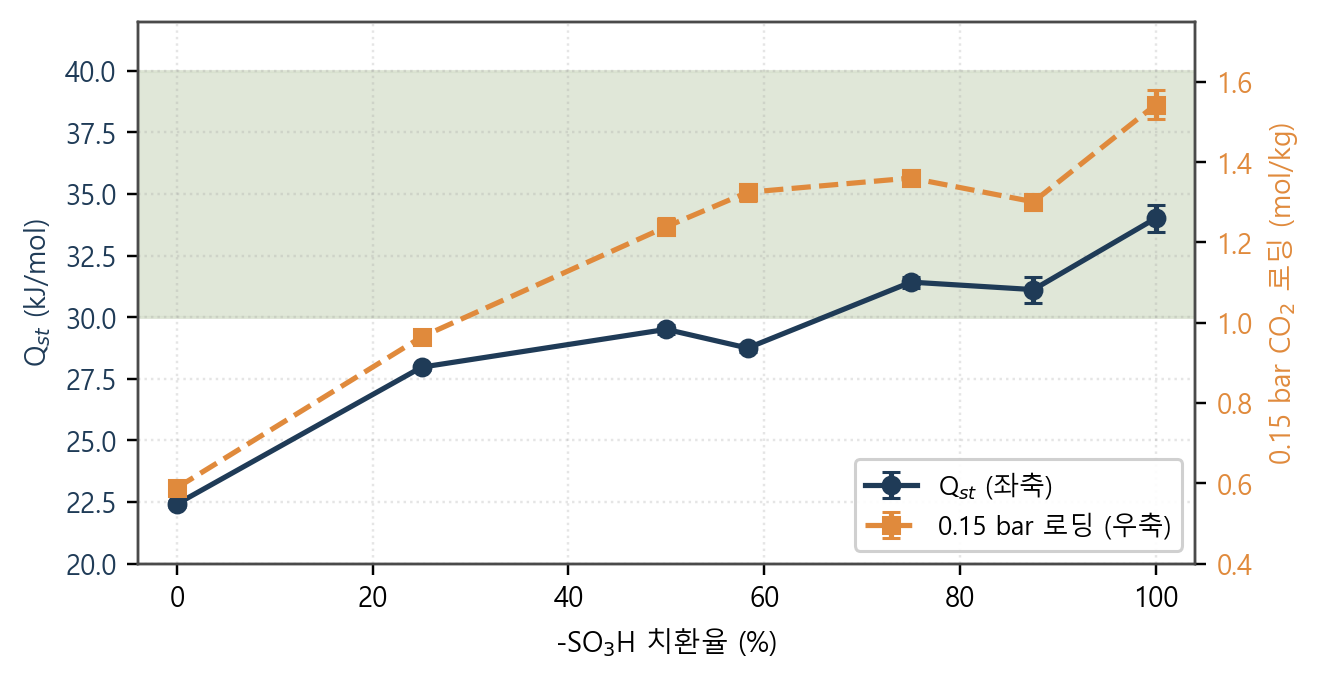
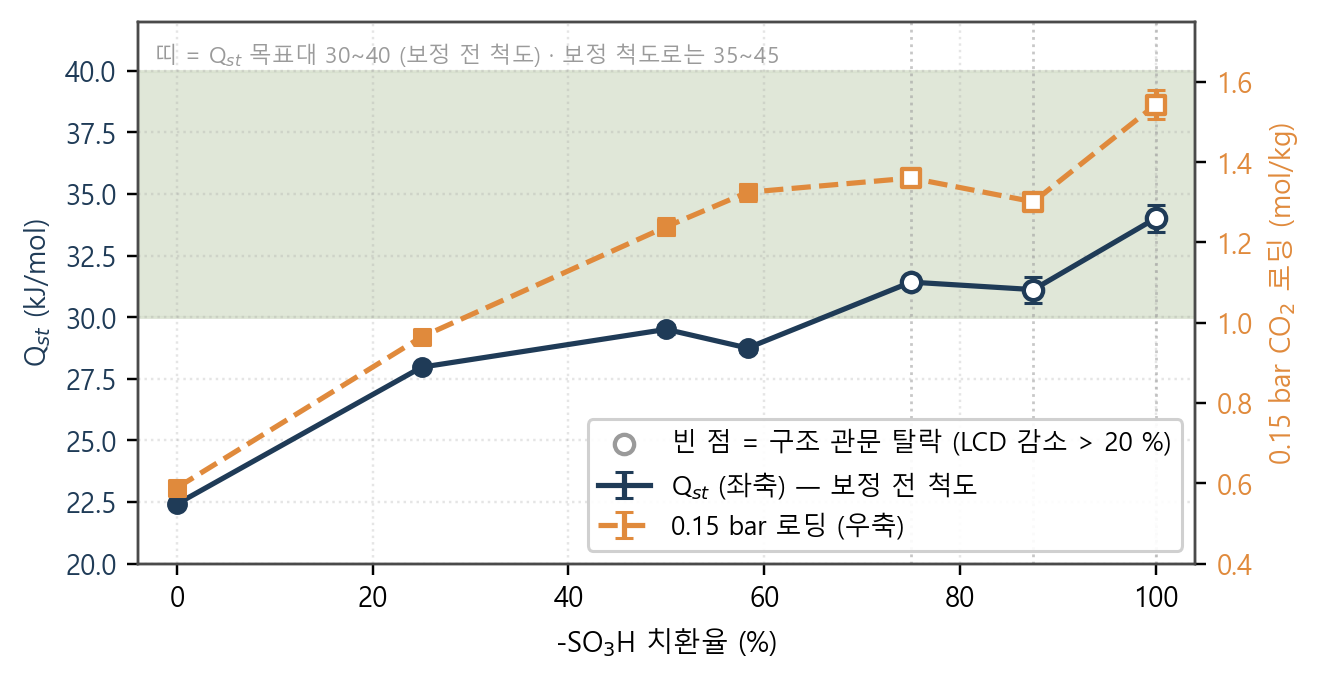
그림 2·6 — 관문 탈락 조성을 빈 점으로 가르고 Q_st 척도를 표시
그림 2 의 사다리 일곱 중 셋(saIm075 20.26 · saIm0875 21.21 · saIm100 22.50 %)이
구조 관문 탈락인데 표지 없이 그려져 있었습니다. 값은 안 지우고 채운 점/빈 점으로
가릅니다 - 사다리가 계속 오르는데 58.3 % 위가 전부 빈 점인 것이 한눈에 보입니다.

Q_st 창 30~40 은 보정 전 척도입니다. 그림 6 의 회귀 계수도 보정 전에서 맞춘
것이라(qst_window_rt.py:18) 내부 일관이되 본문의 35~45 와 다른 자입니다 - 둘 다
척도를 표시했습니다. 숫자는 안 바꿨습니다.

Claude-Session: https://claude.ai/code/session_01TLgHtnUQzncrbs8f2ru8Fg

diff --git a/tools/make_figs.py b/tools/make_figs.py
@@ -58,21 +58,41 @@ qe = [rows[t]['Qst_CO2_err'] for t, _ in tags]
 ld = [rows[t]['loading_015bar'] for t, _ in tags]
 le = [rows[t]['loading_015bar_err'] for t, _ in tags]
 
+# 2026-09-24 — 이 사다리 일곱 중 **셋이 구조 관문 탈락**입니다(saIm075 20.26 · saIm0875 21.21 ·
+#   saIm100 22.50 %, 한도 20 %). 값은 지우지 않되 **표지 없이 그리면 우리 물질로 읽힙니다**
+#   (`GATE_SAIM100_20260924.md`, CLAUDE.md §2). 통과=채운 점 / 탈락=빈 점으로 가릅니다.
+passed = [risk.get(t) is not None and risk[t] <= 20.0 for t, _ in tags]
+
 fig, ax = plt.subplots(figsize=(6.2, 3.2))
 ax.axhspan(30, 40, color=SAGE_L, alpha=.75, zorder=0)
-ax.errorbar(x, q, yerr=qe, marker='o', color=NAVY, lw=1.7, ms=5.5,
-            capsize=3, zorder=3, label='Q$_{st}$ (좌축)')
+ax.errorbar(x, q, yerr=qe, marker='', color=NAVY, lw=1.7, zorder=3,
+            capsize=3, label='Q$_{st}$ (좌축) — 보정 전 척도')
+ax.scatter([xi for xi, k in zip(x, passed) if k], [qi for qi, k in zip(q, passed) if k],
+           marker='o', s=34, color=NAVY, zorder=4)
+ax.scatter([xi for xi, k in zip(x, passed) if not k], [qi for qi, k in zip(q, passed) if not k],
+           marker='o', s=40, facecolors='white', edgecolors=NAVY, linewidths=1.4, zorder=4)
 ax.set_xlabel(SUB); ax.set_ylabel('Q$_{st}$ (kJ/mol)', color=NAVY)
 ax.tick_params(axis='y', labelcolor=NAVY)
 ax.set_ylim(20, 42); ax.set_xlim(-4, 104)
 ax2 = ax.twinx()
-ax2.errorbar(x, ld, yerr=le, marker='s', color=ORANGE, lw=1.7, ms=5.5,
+ax2.errorbar(x, ld, yerr=le, marker='', color=ORANGE, lw=1.7,
              capsize=3, ls='--', label='0.15 bar 로딩 (우축)')
+ax2.scatter([xi for xi, k in zip(x, passed) if k], [li for li, k in zip(ld, passed) if k],
+            marker='s', s=30, color=ORANGE, zorder=4)
+ax2.scatter([xi for xi, k in zip(x, passed) if not k], [li for li, k in zip(ld, passed) if not k],
+            marker='s', s=36, facecolors='white', edgecolors=ORANGE, linewidths=1.4, zorder=4)
+for xi, k in zip(x, passed):
+    if not k:
+        ax.axvline(xi, color=GREY, ls=':', lw=.9, alpha=.55, zorder=1)
+ax.scatter([], [], marker='o', s=40, facecolors='white', edgecolors=GREY,
+           linewidths=1.4, label='빈 점 = 구조 관문 탈락 (LCD 감소 > 20 %)')
 ax2.set_ylabel('0.15 bar CO$_2$ 로딩 (mol/kg)', color=ORANGE)
 ax2.tick_params(axis='y', labelcolor=ORANGE); ax2.set_ylim(0.4, 1.75)
 h1, l1 = ax.get_legend_handles_labels(); h2, l2 = ax2.get_legend_handles_labels()
 ax.legend(h1 + h2, l1 + l2, loc='lower right', fontsize=8.5, framealpha=.92)
 ax.grid(alpha=.25, ls=':', color=GREY)
+ax.text(.015, .965, '띠 = Q$_{st}$ 목표대 30~40 (보정 전 척도) · 보정 척도로는 35~45',
+        transform=ax.transAxes, va='top', ha='left', fontsize=7.4, color=GREY)
 finish(fig, 'fig2_ladder.png')
 
 
@@ -200,13 +220,16 @@ def wc(Q, ns):
 
 Qs = np.arange(18, 60.1, 0.25)
 fig, ax = plt.subplots(figsize=(6.2, 3.1))
+# 이 모형의 회귀 계수(A·B)는 **보정 전 Q 척도**에서 맞춘 것입니다
+# (`qst_window_rt.py:18` · `QST_WINDOW_RT_20260918 §9`: 재회귀는 하지 않고 옛 계수를 그대로 씀).
+# 그래서 창도 보정 전 30~40 입니다 — **내부 일관이되 본문의 35~45(보정 척도)와 다른 자**입니다.
 ax.axvspan(30, 40, color=SAGE_L, alpha=.8, zorder=0)
 for ns, col, ls in ((2.0, SAGE, ':'), (2.5, NAVY, '-'), (4.0, ORANGE, '--')):
     E = [Q + 67.5 / wc(Q, ns) for Q in Qs]
     ax.plot(Qs, E, ls, lw=1.8, color=col, label=f'n$_{{sat}}$ = {ns} mol/kg')
     i = int(np.argmin(E))
     ax.plot(Qs[i], E[i], 'v', ms=7, color=col, mec='#3A3A3A', mew=.6)
-ax.set_xlabel('Q$_{st}$ (kJ/mol)')
+ax.set_xlabel('Q$_{st}$ (kJ/mol) — 보정 전 척도 (보정 척도 = +4.96)')
 ax.set_ylabel('총 재생 에너지 (kJ/mol-CO$_2$)')
 ax.set_ylim(50, 230); ax.set_xlim(18, 60)
 ax.legend(fontsize=8.5, framealpha=.92)
